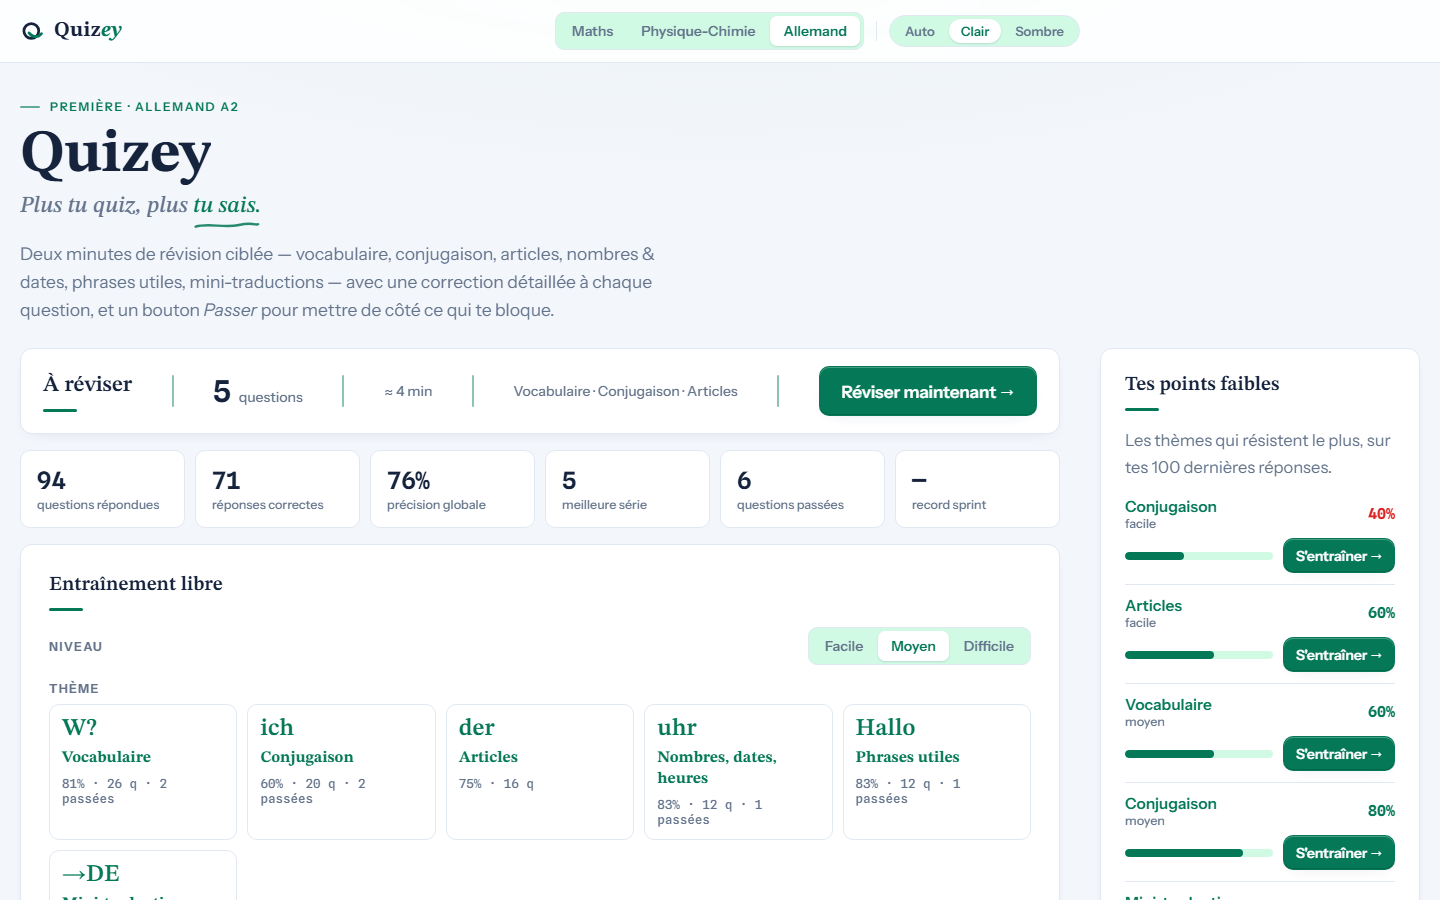
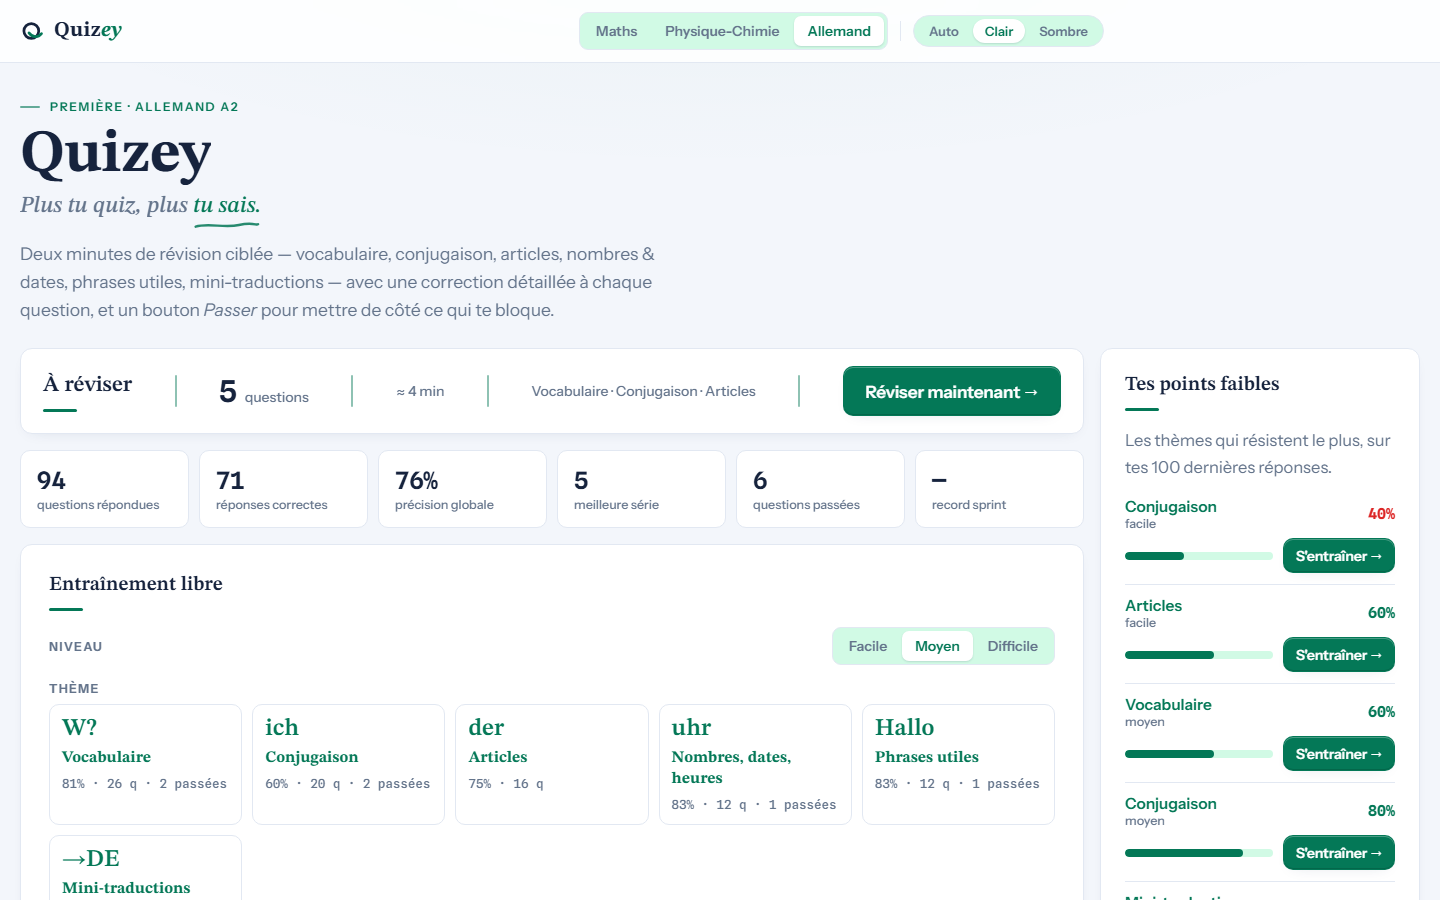
Quizey : rythme d'espacement uniforme — column-gap 40 → 16 px (colonne « Points faibles » au même écart que les autres blocs), #revSlot 360 → 336 px et sélecteurs topbar 360 → 336 px (marge 320 + gap 16) ; captures README régénérées

diff --git a/Quizey.html b/Quizey.html
@@ -153,14 +153,14 @@ body{
 }
 @keyframes barIn{from{opacity:0;transform:translateY(-10px)}to{opacity:1;transform:none}}
 .topbar .wrap{padding-top:12px;padding-bottom:12px}
-/* Écrans larges : l'accueil est en 2 colonnes (marge 320 px + gap 40 px). Les
+/* Écrans larges : l'accueil est en 2 colonnes (marge 320 px + gap 16 px). Les
    sélecteurs (matière + thème) ne doivent plus « flotter » au-dessus de la
    colonne de la marge — où vivent les « Points faibles » : leur bord droit
-   s'arrête au bord droit de la colonne principale (360 px = 320 + 40). Hors
+   s'arrête au bord droit de la colonne principale (336 px = 320 + 16). Hors
    accueil (écran d'exercice, pleine largeur), la topbar reprend toute sa
    largeur. */
 @media (min-width:1025px){
-  body:has(#home:not([hidden])) .topbar .wrap{padding-right:360px}
+  body:has(#home:not([hidden])) .topbar .wrap{padding-right:336px}
 }
 .brand{display:inline-flex;align-items:center;font:700 21px var(--f-display);letter-spacing:.01em}
 /* Pas de gap sur le conteneur : « Quiz » et « ey » seraient deux items flex
@@ -342,13 +342,15 @@ html.boot .slogan .soft{opacity:0;animation:saiIn .5s var(--ease) both;animation
    le texte, sur sa propre ligne, avec la MÊME LARGEUR que la colonne
    principale : ses DEUX bords sont calés sur les blocs en dessous (stats /
    entraînement / sprint) — ne les dépasse jamais. Largeur = 100% de la
-   rangée moins 360px (320 marge + 40 gap), le même décalage que les
+   rangée moins 336px (320 marge + 16 gap), le même décalage que les
    sélecteurs de la topbar. Écart description↔carte = 24 px : le rythme
    standard entre blocs (16 px) « légèrement augmenté » — demande 2026-08-21. */
 /* row-gap 16 px = rythme standard entre panneaux (marge des .panel) —
    l'écart « À réviser » → blocs en dessous est le même que partout
-   (demande 2026-08-21) ; column-gap 40 px = écart entre colonnes. */
-#home{display:grid;grid-template-areas:"hero hero" "main marge";grid-template-columns:minmax(0,1fr) 320px;gap:16px 40px}
+   (demande 2026-08-21) ; column-gap 16 px AUSSI (demande 2026-08-21, 2e
+   passe) : l'écart entre la colonne « Points faibles » et les blocs de la
+   colonne principale = le même 16 px que partout → rythme unique. */
+#home{display:grid;grid-template-areas:"hero hero" "main marge";grid-template-columns:minmax(0,1fr) 320px;gap:16px}
 .hero{grid-area:hero;min-width:0;display:flex;flex-direction:column;align-items:flex-start;gap:24px}
 .herotxt{min-width:0}
 /* « À réviser » : #revSlot est un simple <div> rempli/vidé par renderHome ;
@@ -363,7 +365,7 @@ html.boot .slogan .soft{opacity:0;animation:saiIn .5s var(--ease) both;animation
    les dépasser ; son écart avec les blocs sous elle = 16 px, le rythme
    standard entre panneaux (row-gap de #home, même valeur que la marge des
    .panel). */
-#revSlot{min-width:0;width:calc(100% - 360px)}
+#revSlot{min-width:0;width:calc(100% - 336px)}
 #revSlot:empty{display:none}
 .hero .revcta{display:flex;align-items:center;flex-wrap:nowrap;gap:8px 10px;padding:17px 22px;margin-bottom:0;justify-content:space-between}
 .hero .revcta h2{margin:0;font-size:22px;flex:none}
